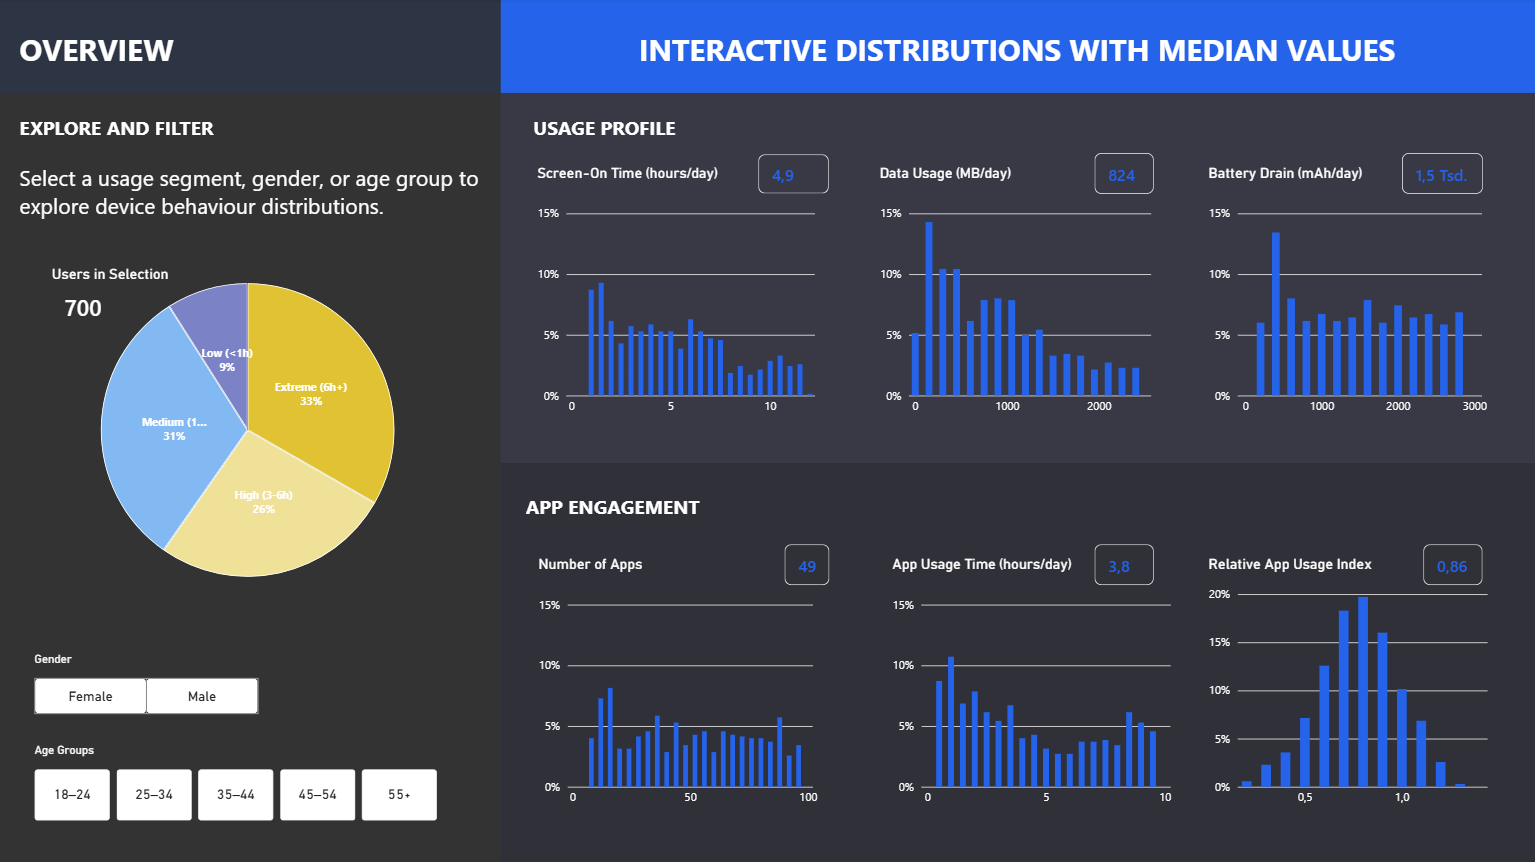
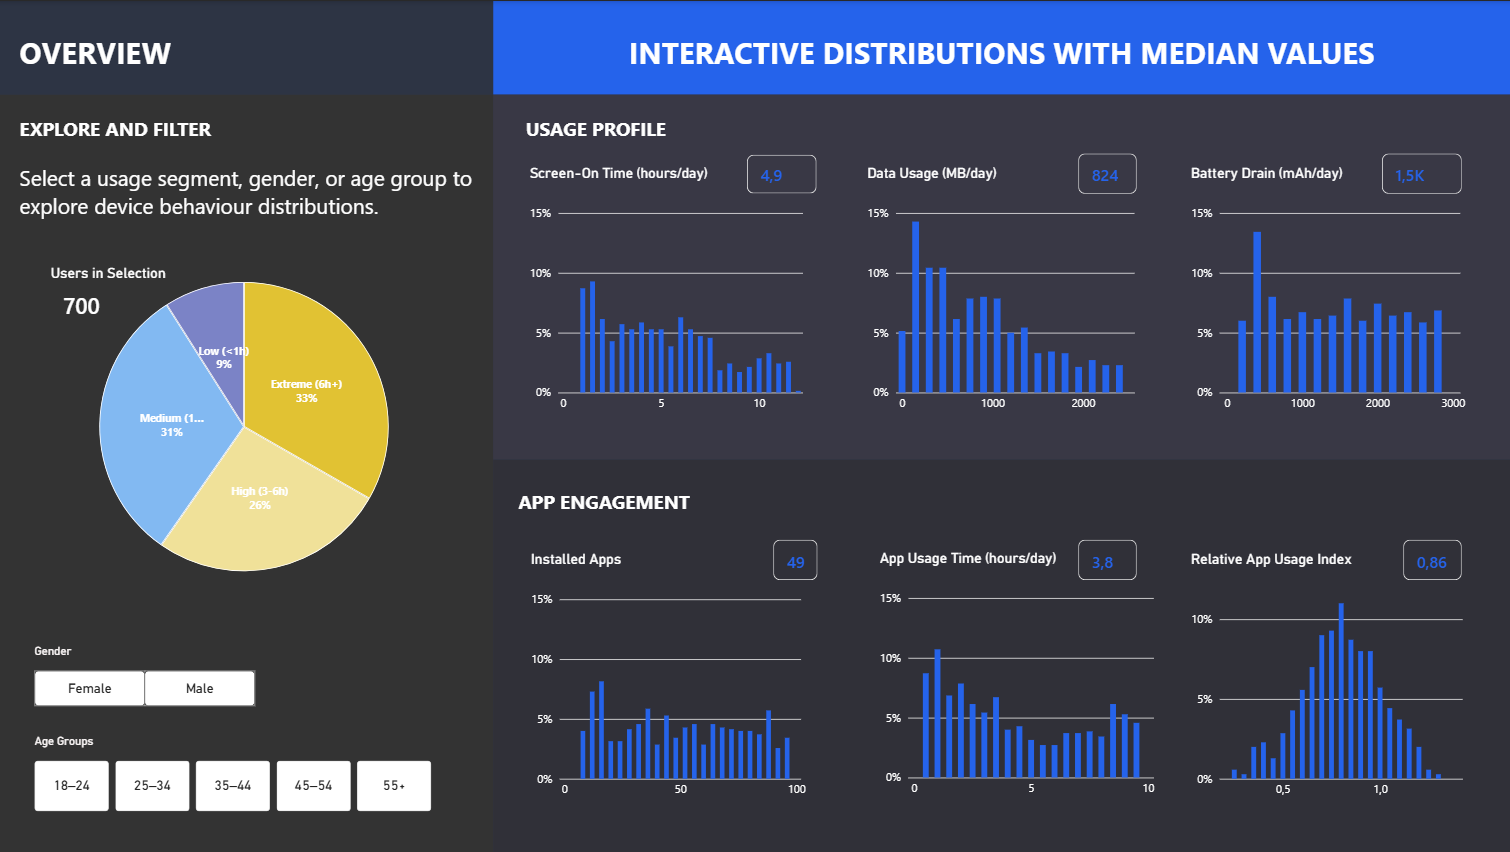
update ReadMe and screenshots

diff --git a/README.md b/README.md
@@ -1,6 +1,8 @@
-# Decoding Device Behavior
+# Decoding Device Behaviour
 
-📱 An interactive Power BI dashboard that translates mobile-device telemetry into user segments, engagement patterns, and actionable insights on app usage, data consumption, and battery performance.
+An interactive Power BI dashboard that translates mobile-device telemetry into user segments, engagement patterns and hypotheses about app usage, data consumption and battery performance.
+
+> **Data note:** The underlying Kaggle dataset is **synthetic** (see [Data citation](#data-citation)). The findings below describe patterns in this dataset; they are not evidence about real users.
 
 ## Interactive Distributions and Medians
 
@@ -10,43 +12,37 @@ This overview page provides an interactive view of device behaviour across the u
 
 ### Explore and filter
 
-Users can interact with the dashboard through three segmentation dimensions:
-
-- **Usage intensity:** Low (<1h), Medium (1–3h), High (3–6h), and Extreme (6h+)
+- **Usage intensity:** four segments defined in the preprocessing notebook by binning **App Usage Time (min/day)**: Low (up to 1 h), Medium (1–3 h), High (3–6 h) and Extreme (above 6 h). The source dataset's own 1–5 "User Behavior Class" is not used.
 - **Gender**
-- **Age group:** 18–24, 25–34, 35–44, 45–54, and 55+
+- **Age group:** 18–24, 25–34, 35–44, 45–54 and 55+
 
 Selecting a usage-intensity segment highlights its contribution within the full distributions. Gender and age-group slicers filter the population and update all charts and median values.
 
 ### Metrics covered
 
-The page groups six behavioural metrics into two perspectives:
+| Usage profile              | App engagement                |
+| -------------------------- | ----------------------------- |
+| Screen-On Time (hours/day) | Number of Apps Installed      |
+| Data Usage (MB/day)        | App Usage Time (hours/day) |
+| Battery Drain (mAh/day)    | Relative App Usage Index   |
 
-| Usage profile | App engagement |
-|---|---|
-| Screen-On Time (hours/day) | Number of Apps |
-| Data Usage (MB/day) | App Usage Time (hours/day) |
-| Battery Drain (mAh/day) | Relative App Usage Index |
-
-The histogram-style visuals show the distribution of users across each metric. The KPI cards display the **median** for the active selection, making the overview less sensitive to extreme observations than an average-based summary.
+The distribution visuals show how users are spread across each metric. The KPI cards display the **median** for the active selection, which is less sensitive to extreme values than an average.
 
 ### Relative App Usage Index
 
-The Relative App Usage Index is calculated as:
-
-```text
+```
 App Usage Time (min/day) ÷ Screen-On Time (min/day)
 ```
 
-A value of `0.86x`, for example, means that recorded app usage is 0.86 times the recorded screen-on time.
+A value of `0.86x` means that recorded app usage is 0.86 times the recorded screen-on time.
 
-Some source records produce values above `1.00x`. Because the underlying dataset is synthetic and the two source time metrics are not strictly constrained as parts of the same time budget, the metric is presented as a **relative index** rather than a percentage share. No values were capped or altered.
+In **132 of 700 records (18.9 %)** the index exceeds `1.00x` (maximum 1.32x), which is logically impossible if app time is part of screen-on time. Because the dataset is synthetic and the two time metrics are not constrained as parts of one time budget, the metric is shown as a **relative index**, not a percentage share. No values were capped or altered.
 
 ## User Intensity and App Engagement
 
 ![User Intensity and App Engagement](04_screenshots/user-intensity-app-engagement_v02.png)
 
-*User intensity is the strongest behavioural lens in this dataset: higher-intensity users spend more time in apps, use a broader range of apps, and show higher relative app usage.*
+*Higher-intensity users use a broader range of apps and record higher app usage relative to screen-on time.*
 
 ## Device Models and App Engagement
 
@@ -60,99 +56,90 @@ Some source records produce values above `1.00x`. Because the underlying dataset
 
 Mobile devices generate thousands of daily telemetry signals. This project explores what those signals reveal about user behaviour through three complementary views:
 
-1. **Distribution overview:** How are device-behaviour metrics distributed across the population, and how do those distributions differ by usage intensity, gender, and age group?
-2. **User intensity:** How do users with low, medium, high, and extreme device activity differ in app engagement?
-3. **Device models:** Do usage patterns, app engagement, data consumption, and battery drain differ meaningfully across device models?
+1. **Distribution overview:** How are device-behaviour metrics distributed across the population, and how do they differ by usage intensity, gender and age group?
+2. **User intensity:** How do users with low, medium, high and extreme device activity differ in app engagement?
+3. **Device models:** Do usage patterns, app engagement, data consumption and battery drain differ meaningfully across device models?
 
-The report is designed as a three-page data story. It first establishes the population baseline through interactive distributions and median values, then compares behavioural intensity segments, and finally examines whether device model provides an additional explanation for observed engagement patterns.
+The report is a three-page data story: it first establishes the population baseline, then compares intensity segments, and finally checks whether device model adds an explanation.
+
+## Sample size
+
+The dataset contains **700 users** (no missing values in any column). Segment sizes: Low **[n]**, Medium **[n]**, High **[n]**, Extreme **[n]**. Device models: **[n per model]**.
+
+Small segments mean the comparisons carry real uncertainty. Differences between device models in particular should be read as indicative, not conclusive.
 
 ## Key findings
 
-### 1. User intensity is the primary behavioural difference
+### 1. Higher-intensity users have more apps installed and show a higher relative app usage
 
-Higher-intensity users show both deeper and broader app engagement:
+Usage intensity is defined by binning app usage time (see above), so app usage time rising across segments (approximately **0.7 h/day** for Low to **8.2 h/day** for Extreme) is true by construction and is not a finding. The informative differences are in metrics that do not define the segments:
 
-- Average app usage rises from approximately **0.7 hours per day** among Low users to **8.2 hours per day** among Extreme users.
-- The average number of apps rises from approximately **15** to **81**.
-- Relative App Usage Index rises from approximately **0.49x** to **0.94x**.
-
-This indicates that higher-intensity users not only spend more time on their devices, but also use a broader range of apps and record higher app usage relative to screen-on time.
+- The average **number of installed apps** rises from approximately **15** (Low) to **81** (Extreme).
+- The **Relative App Usage Index** rises from approximately **0.49x** to **0.94x**.
 
 ### 2. Device models add modest variation
 
 Across the five device models, absolute device activity is broadly similar:
 
-- Average screen-on time ranges from approximately **5.1 to 5.4 hours per day**.
-- Average data usage ranges from approximately **898 to 966 MB per day**.
-- Average battery drain ranges from approximately **1.5 to 1.6 thousand mAh per day**.
-- The average number of apps used ranges from approximately **50 to 53**.
+- Average screen-on time: approximately **5.1 to 5.4 hours per day**.
+- Average data usage: approximately **898 to 966 MB per day**.
+- Average battery drain: approximately **1.5 to 1.6 thousand mAh per day**.
+- Average number of installed apps: approximately **50 to 53**.
 
-Differences are more visible in relative app usage, which ranges from approximately **0.83x to 0.88x** across device models. In this dataset, user intensity appears to be a more informative lens for understanding app engagement than device model.
+Relative app usage varies slightly more, from approximately **0.83x to 0.88x**. In this dataset, usage intensity is a more informative lens for app engagement than device model.
 
-> These findings are descriptive. They identify patterns in the available data but do not establish that user intensity or device model causes a specific usage outcome.
+> These findings are descriptive. They identify patterns in the available data but do not establish that usage intensity or device model causes a specific outcome.
+
+## Implications for product teams (hypotheses, not conclusions)
+
+If similar patterns appeared in real telemetry, they would suggest questions worth testing:
+
+- Do heavy users interact with a broader set of apps because they have more use cases, or because their devices are configured differently?
+- Is intensity-based segmentation more useful for product decisions than segmentation by device model?
+- Would telemetry quality checks (such as the app-time-greater-than-screen-time cases) need to be part of any real reporting pipeline?
 
 ## Dashboard structure
 
-| Page | Question | Main measures |
-|---|---|---|
-| **Interactive Distributions and Medians** | How are device-behaviour metrics distributed across the selected user population? | Median screen-on time, data usage, battery drain, number of apps, app usage time, Relative App Usage Index |
-| **User Intensity and App Engagement** | How do behavioural intensity segments differ in app engagement? | Average screen-on time, data usage, battery drain, average number of apps, average app usage, Relative App Usage Index |
-| **Device Models and App Engagement** | How similar or different are engagement patterns across device models? | Average screen-on time, data usage, battery drain, average number of apps, average app usage, Relative App Usage Index |
+| Page                                      | Question                                                                          | Main measures                                                                                                          |
+| ----------------------------------------- | --------------------------------------------------------------------------------- | ---------------------------------------------------------------------------------------------------------------------- |
+| **Interactive Distributions and Medians** | How are device-behaviour metrics distributed across the selected user population? | Median screen-on time, data usage, battery drain, number of installed apps, app usage time, Relative App Usage Index             |
+| **User Intensity and App Engagement**     | How do intensity segments differ in app engagement?                               | Average screen-on time, data usage, battery drain, number of installed apps, app usage, Relative App Usage Index                 |
+| **Device Models and App Engagement**      | How similar or different are engagement patterns across device models?            | Average screen-on time, data usage, battery drain, number of installed apps, app usage, Relative App Usage Index                 |
+
+**Why medians on page 1 and averages on pages 2–3?** The overview uses medians to describe typical values robustly. The comparison pages use averages **[add reason, e.g. "because segment distributions are roughly symmetric" – or switch to medians]**.
 
 ## Interactivity
 
-The overview page includes interactive filtering by:
+The overview page filters by usage intensity, gender and age group. The two comparison pages have slicers for gender, operating system, and device model or usage intensity, depending on the page.
 
-- Usage intensity
-- Gender
-- Age group
-
-The two analytical comparison pages include slicers for:
-
-- Gender
-- Operating system
-- Device model or usage intensity, depending on the page
-
-The Key Insight text is generated dynamically with DAX and updates with the current slicer selection. Dashed reference lines show the overall average for the currently selected users.
+The Key Insight text is generated dynamically with DAX and updates with the current slicer selection. Dashed reference lines show the overall average for the selected users.
 
 ## Tools and methods
 
-- **Power BI** for interactive report design and data storytelling
-- **DAX** for dynamic measures, segment comparisons, and dynamic Key Insight text
-- **Power Query** for data preparation and transformation
-- **Python** for exploratory data analysis
+- **Power BI** for report design and data storytelling
+- **DAX** for dynamic measures, segment comparisons and the dynamic Key Insight text
+- **Power Query** for data preparation
+- **Python** (pandas, matplotlib, seaborn) for data audit, preprocessing and exploratory analysis (`02_exploration/`)
 
 ## Data citation
 
-This project uses the following dataset:
+> Khorasani, V. (2024). *Mobile Device Usage and User Behavior Dataset* [Data set]. Kaggle. <https://doi.org/10.34740/KAGGLE/DV/4455>
 
-> Khorasani, V. (2024). *Mobile Device Usage and User Behavior Dataset* [Data set]. Kaggle. [https://doi.org/10.34740/KAGGLE/DV/4455](https://doi.org/10.34740/KAGGLE/DV/4455)
-
-**License:** Apache 2.0  
-**Accessed:** September 2026
+**License:** Apache 2.0 · **Accessed:** September 2026
 
 ## Repository structure
 
-```text
+```
 .
-├── 01_data/                                     # Source data and/or prepared data
-├── 02_exploration/                              # Jupyter notebooks
-├── 03_dashboard/                                # Power BI report files
-│   ├── 03_user_behavior_dataset_cleaned.pbix    # Interactive Power BI dashboard
+├── 01_data/                                     # Not committed
+│   ├── 01_user_behavior_dataset_original.csv    # Kaggle source file, not committed
+│   └── 02_user_behavior_dataset_cleaned.csv     # Written by the notebook, not committed
+├── 02_exploration/                              # 01_exploring_preprocessing_data.ipynb
+├── 03_dashboard/                                # Power BI report, not committed
+│   └── 03_user_behavior_dataset_cleaned.pbix
 ├── 04_screenshots/                              # Dashboard previews used in this README
-│   ├── device-behaviour-overview-interactive-distributions-and-medians.png
-│   ├── user-intensity-app-engagement_v02.png
-│   └── mobile-devices-app-engagement_v01.png
 └── README.md
 ```
 
-## Open the dashboard
-
-1. Download or clone this repository.
-2. Open the `.pbix` file in the `03_dashboard` folder with **Power BI Desktop**.
-3. If prompted, update the data-source path to the local file in `01_data`.
-4. Use the report slicers and visual interactions to explore user segments, device models, and behavioural distributions.
-
----
 
 *Built as a portfolio project exploring how product telemetry can be translated into clear customer and user-behaviour insights.*
